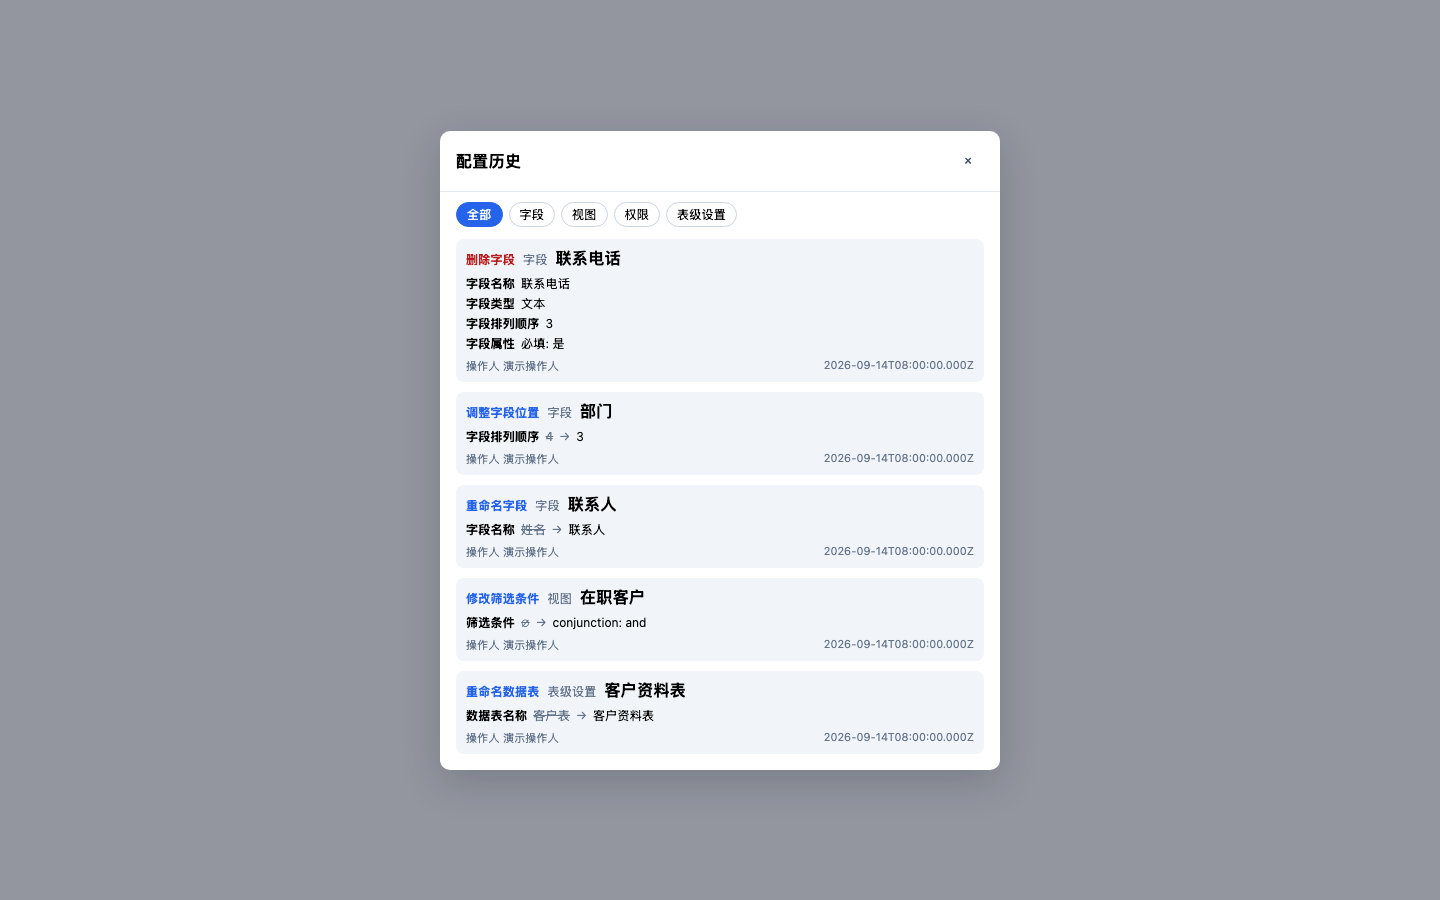
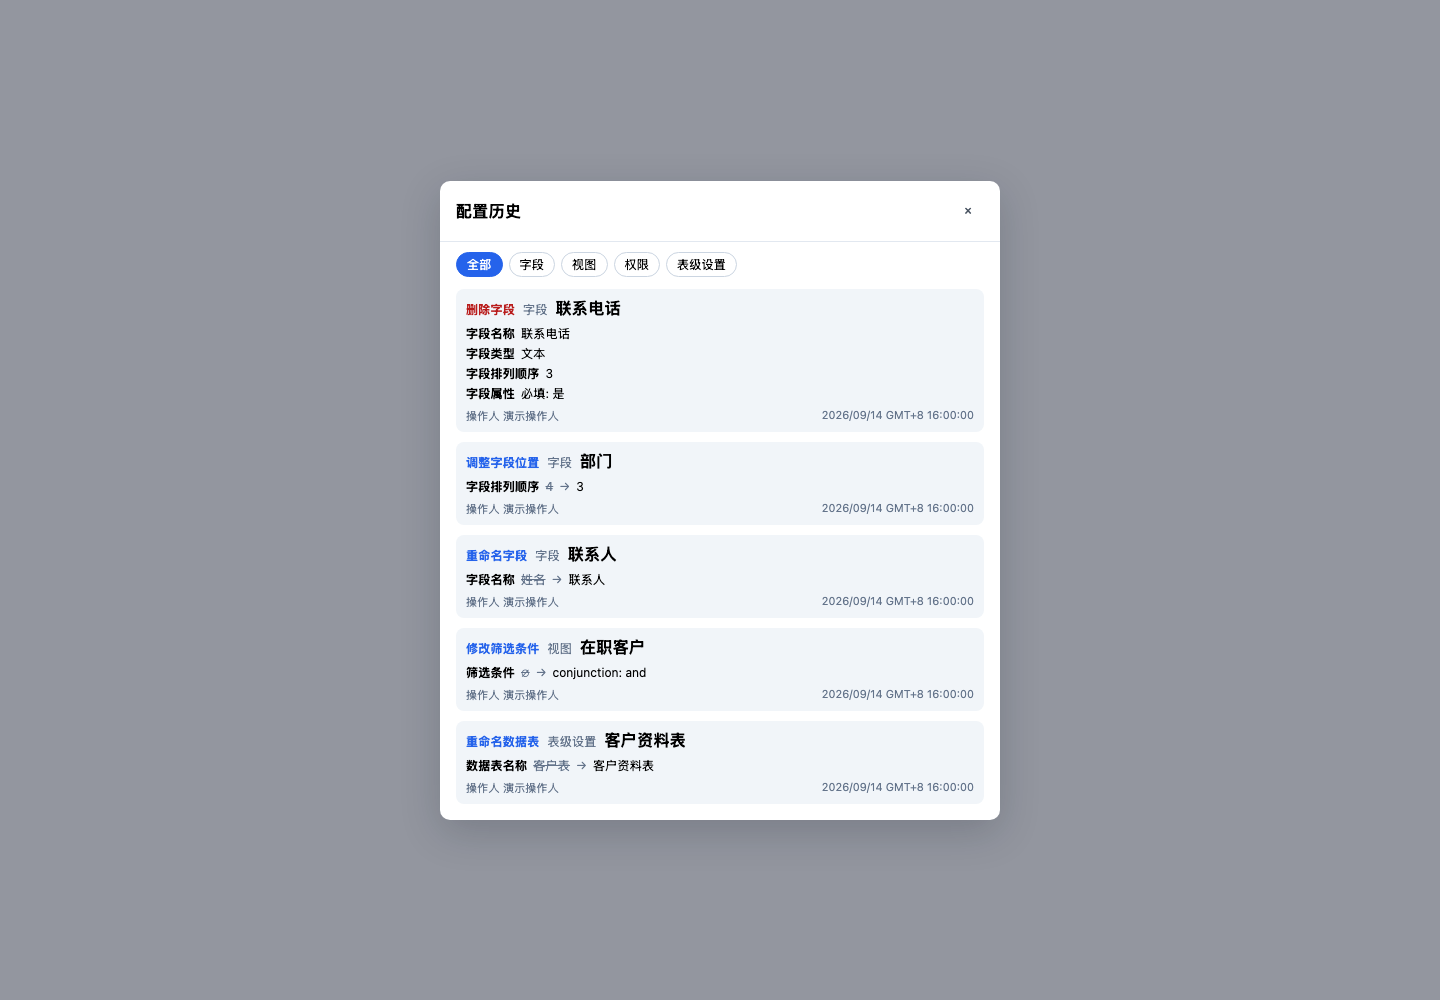
fix(multitable): show config history in viewer timezone

diff --git a/apps/web/tests/multitable-config-history-modal.spec.ts b/apps/web/tests/multitable-config-history-modal.spec.ts
@@ -173,6 +173,28 @@ describe('MetaConfigHistoryModal — readable configuration operations', () => {
     const actors = [...document.body.querySelectorAll('[data-test="config-history-actor"]')].map((el) => el.textContent)
     expect(actors).toEqual(['操作人 张三', '操作人 unknown-user'])
   })
+
+  it.each([true, false])('shows time in the viewer device timezone with a zone label (isZh=%s)', async (isZh) => {
+    const createdAt = '2026-09-14T08:00:00.000Z'
+    mountModal({ isZh, items: [rev({ createdAt })] })
+    await nextTick()
+    const time = q('.cfg-history__time')
+    expect(time?.tagName).toBe('TIME')
+    expect(time?.textContent).toBe(new Date(createdAt).toLocaleString(isZh ? 'zh-CN' : 'en-US', {
+      year: 'numeric', month: '2-digit', day: '2-digit',
+      hour: '2-digit', minute: '2-digit', second: '2-digit',
+      hourCycle: 'h23', timeZoneName: 'short',
+    }))
+    expect(time?.getAttribute('datetime')).toBe(createdAt)
+    expect(time?.getAttribute('title')).toBe(createdAt)
+    expect(time?.textContent).not.toBe(createdAt)
+  })
+
+  it('preserves an invalid legacy time verbatim instead of inventing a local time', async () => {
+    mountModal({ items: [rev({ createdAt: 'legacy-time-unavailable' })] })
+    await nextTick()
+    expect(q('.cfg-history__time')?.textContent).toBe('legacy-time-unavailable')
+  })
 })
 
 describe('MetaConfigHistoryModal — S2 aiShortcut prompt-config history rendering', () => {

diff --git a/apps/web/src/multitable/components/MetaConfigHistoryModal.vue b/apps/web/src/multitable/components/MetaConfigHistoryModal.vue
@@ -52,7 +52,7 @@
               <p v-else-if="rev.action === 'create' || rev.action === 'delete'" class="cfg-history__hint" data-test="config-history-details-unavailable">{{ l('record.configHistoryDetailsUnavailable') }}</p>
               <div class="cfg-history__meta">
                 <span v-if="rev.actorId" data-test="config-history-actor" :title="rev.actorId">{{ l('record.configHistoryBy') }} {{ rev.actorName || rev.actorId }}</span>
-                <span class="cfg-history__time">{{ rev.createdAt }}</span>
+                <time class="cfg-history__time" :datetime="rev.createdAt" :title="rev.createdAt">{{ configHistoryTime(rev.createdAt, isZh) }}</time>
               </div>
             </li>
           </ul>
@@ -125,7 +125,7 @@ import type { MetaConfigRevision, ConfigRestoreExecuteConfirm, ConfigRestorePrev
 import { redactString } from '../utils/automation-log-redact'
 import { recordLabel, configRestoreTypedConfirm, type MetaRecordLabelKey } from '../utils/meta-record-labels'
 import { MtIconButton } from '../ui'
-import { configHistoryEntityName, configHistoryKeyLabel, configHistoryOperation } from '../utils/meta-config-history-labels'
+import { configHistoryEntityName, configHistoryKeyLabel, configHistoryOperation, configHistoryTime } from '../utils/meta-config-history-labels'
 import { fieldTypeLabel } from '../utils/meta-core-labels'
 
 const props = defineProps<{

diff --git a/apps/web/src/multitable/utils/meta-config-history-labels.ts b/apps/web/src/multitable/utils/meta-config-history-labels.ts
@@ -91,3 +91,14 @@ export function configHistoryEntityName(rev: MetaConfigRevision, resolve: (id: s
   const name = snapshot?.name
   return typeof name === 'string' && name.trim() ? name : resolve(rev.entityId)
 }
+
+export function configHistoryTime(timestamp: string, isZh: boolean): string {
+  const date = new Date(timestamp)
+  if (Number.isNaN(date.getTime())) return timestamp
+  // Omit timeZone to use the current viewer's device zone, not the actor's or the server's zone.
+  return date.toLocaleString(isZh ? 'zh-CN' : 'en-US', {
+    year: 'numeric', month: '2-digit', day: '2-digit',
+    hour: '2-digit', minute: '2-digit', second: '2-digit',
+    hourCycle: 'h23', timeZoneName: 'short',
+  })
+}

diff --git a/docs/development/multitable-config-history-ux-design-20260914.md b/docs/development/multitable-config-history-ux-design-20260914.md
@@ -26,6 +26,7 @@ not a new recovery capability.
 | Historical name present | Use revision after.name, or before.name for deletion |
 | Name unavailable | Existing live label resolver, then its ID fallback |
 | Operator | Server directory display name; preserve actor ID fallback and tooltip |
+| Event time | Current viewer device timezone, explicit zone label and 24-hour clock; original UTC value retained in tooltip and datetime attribute |
 | Missing snapshot | Explicit unavailable details, never an invented snapshot |
 
 Create/delete rendering uses declared changed keys. Legacy empty key lists fall
@@ -44,3 +45,13 @@ conditional-read literal masking is unchanged.
 No mutation endpoint, migration, flag, shared CI selector, recycle-bin behavior,
 whole-table recovery or deployment is changed. The existing modal spec is already
 included in both multitable web guard and required web tests.
+
+## Recovery UX Follow-up Boundary
+
+The existing trash UI still lists/restores deleted records, not whole sheets.
+The owner-requested split (recycle bin for whole sheets; record/field deletion
+details and recovery in history) is not delivered by this configuration-history
+presentation patch. Whole-sheet soft-delete/restore APIs exist, but the table
+recycle-bin list/entry UI remains separate work. Existing record history restores
+prior values of a live record, not deleted-record entries. Field undelete stays
+server-gated; only previously captured value/link tombstones can rehydrate data.

diff --git a/docs/development/multitable-config-history-ux-verification-20260914.md b/docs/development/multitable-config-history-ux-verification-20260914.md
@@ -53,6 +53,19 @@ claimed by this report.
 
 ## Delivery Boundary
 
+Viewer-time follow-up: the existing modal suite now has 44 tests; the five-file
+frontend group has 117 tests. Timezone tests run with UTC and America/New_York.
+Hardcoding UTC produced two precise failures in New York; restored code passes.
+The time remains the same instant: formatting uses viewer device timezone only,
+while original UTC text stays in the title/datetime attributes. Invalid legacy
+timestamps remain unchanged rather than being replaced with invented times.
+
+Chromium timezone contexts independently verified the same synthetic instant:
+Asia/Taipei `16:00:00 GMT+8`, UTC `08:00:00`, America/New_York `04:00:00 GMT-4`.
+The original `2026-09-14T08:00:00.000Z` datetime stayed identical in all contexts.
+Desktop/mobile screenshots were refreshed in Asia/Taipei; 1440px and 390px had no
+horizontal overflow. Web app typecheck and changed source ESLint passed again.
+
 Draft/HOLD publication only. No Ready, merge, flag change, dispatch, deployment,
 production access or customer data. The disposable database is dropped and its
 dedicated PostgreSQL process stopped after verification. Existing historical
